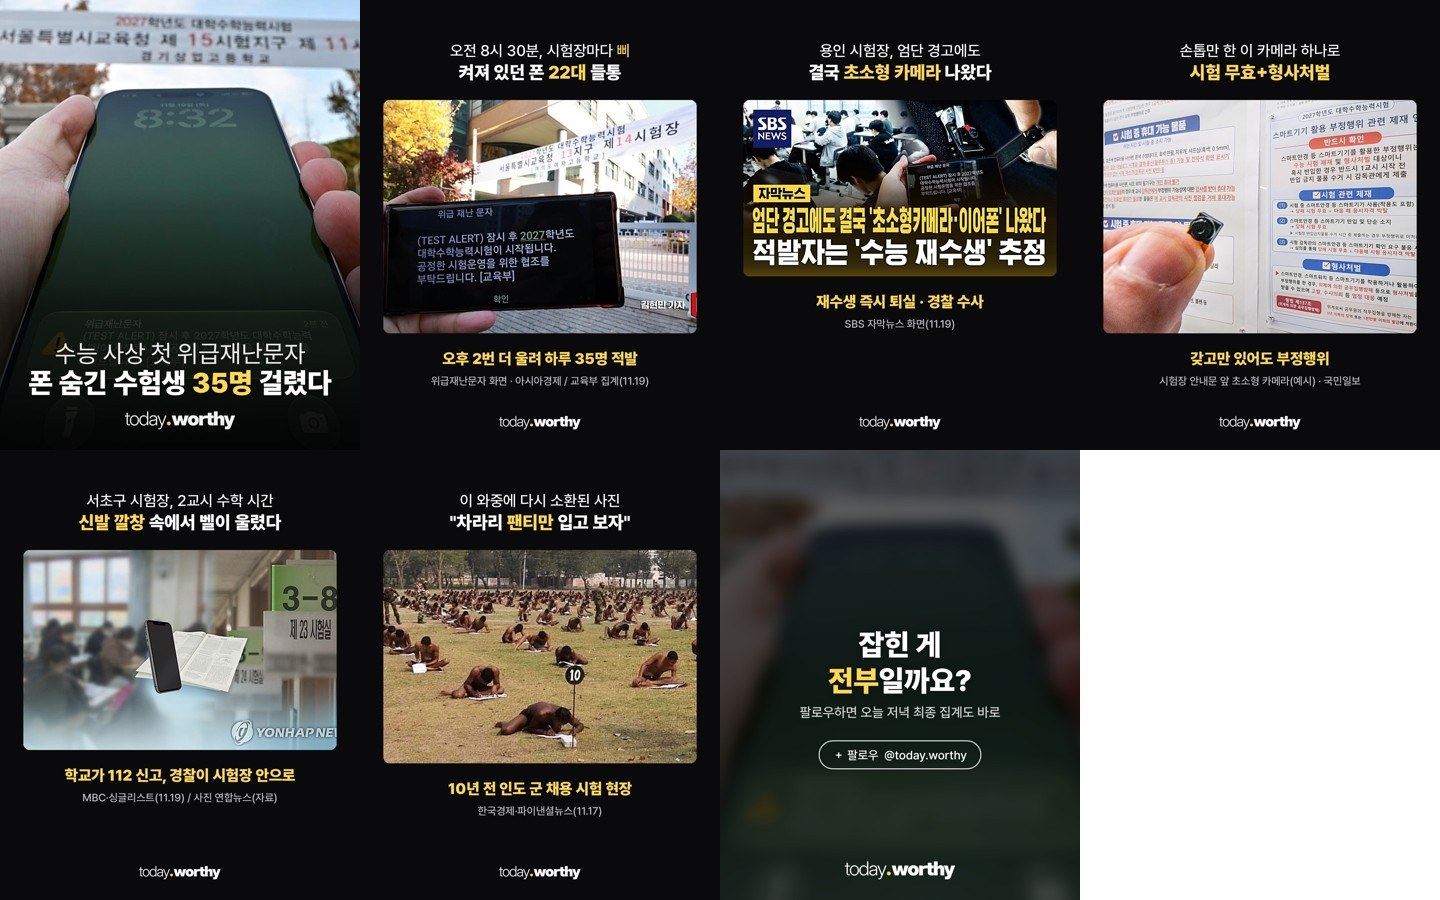
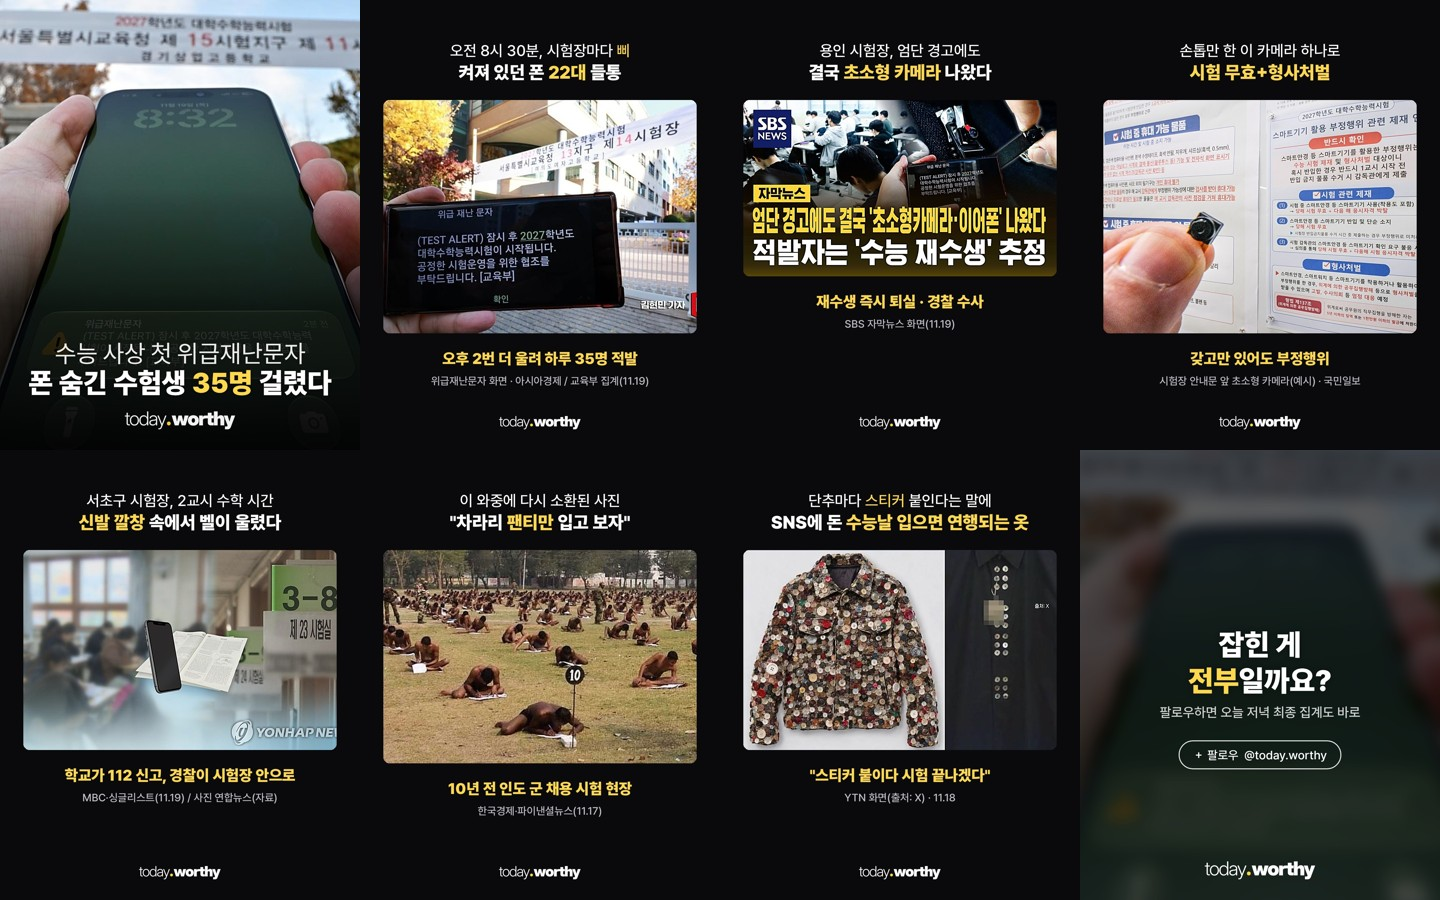
sunungcheat: 단추 재킷 짤 카드 추가(8장)
Claude-Session: https://claude.ai/code/session_01FGsw5S4nGrZdCJo7qBU1wE

Changed region(s): [[0.5, 0.4978, 1.0, 1.0]]

diff --git a/media/20261119-sunungcheat/build_cards.py b/media/20261119-sunungcheat/build_cards.py
@@ -73,5 +73,8 @@ frame(("서초구 시험장, 2교시 수학 시간", "'신발 깔창' 속에서 
 frame(("이 와중에 다시 소환된 사진", "\"차라리 '팬티만' 입고 보자\""),
       fit("press33.jpg", 940, 640),
       "10년 전 인도 군 채용 시험 현장", "한국경제·파이낸셜뉴스(11.17)").save(O / "c06.jpg", quality=93)
+frame(("단추마다 '스티커' 붙인다는 말에", "SNS에 돈 '수능날 입으면 연행되는 옷'"),
+      fit("meme_jacket.jpg", 940, 600, crop=(108, 20, 1172, 696)),
+      "\"스티커 붙이다 시험 끝나겠다\"", "YTN 화면(출처: X) · 11.18").save(O / "c07.jpg", quality=93)
 fit("press15.jpg", W, H, (.5, .5)).save(O / "cover_bg.jpg", quality=95)
 print("ok")
